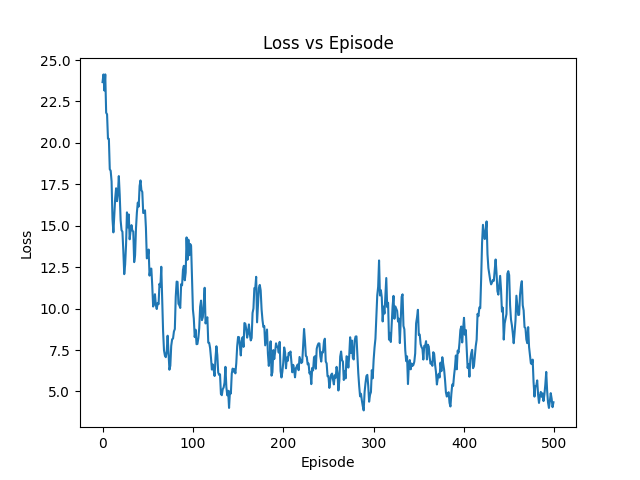
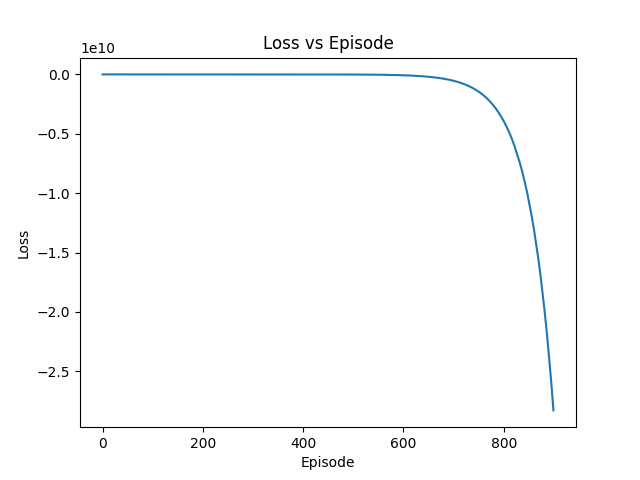
Asserting posterior process

diff --git a/frozenlake_irl.py b/frozenlake_irl.py
@@ -48,32 +48,43 @@ class IrlAgentBayesian(frozenlake_agent.FrozenLakeQLearning):
             self.Q_table = np.zeros((self.env.observation_space.n, self.env.action_space.n))
             games_lengths.append(self.run())
             self.feature_expectations.append(self.get_feature_expectation())
-            loss = torch.norm(weights - self.expert_feature_expectation)**2
-            optimizer.zero_grad()
-            loss.backward()
-            optimizer.step()
-            losses.append(loss.item())
-            print("loss.item(): ", loss.item())
-            if loss.item() < 1e-5:
-                break
+            for j in range(10):
+                for feature_expectation in self.feature_expectations:
+                    log_prior = prior.log_prob(weights).sum()
+                    feature_expectation = torch.tensor(feature_expectation, dtype=torch.float32)
+                    feature_expectation_difference = self.expert_feature_expectation - feature_expectation
+                    print(feature_expectation_difference.dtype)
+                    print(weights.dtype)
+                    print(feature_expectation.dtype)
 
-        self.weights = weights.detach().numpy()
+                    dot_product = torch.dot(feature_expectation_difference, weights)
+
+                    loss = -dot_product + log_prior
+
+                    optimizer.zero_grad()
+
+                    loss.backward()
+                    optimizer.step()
+
+                    losses.append(loss.item())
+
+            self.weights = weights.detach().numpy()
         return games_lengths, losses
 
 if __name__ == "__main__":
     print('Running IRL FrozenLake')
     time_start = time.time()
-    expert = frozenlake_agent.FrozenLakeQLearning(num_episodes=5000)
+    expert = frozenlake_agent.FrozenLakeQLearning(num_episodes=500)
     lengths = expert.run()
     print(f"Time to run: {time.time() - time_start}")
     print(f"Q_table: {expert.Q_table}")
     expert.draw_table()
 
     expert_feature_expectation = expert.get_feature_expectation(num_episodes=100)
-    prior = 'laplacian'
+    prior = 'uniform'
     agent = IrlAgentBayesian(expert_feature_expectation, prior_type=prior)
 
-    games_lengths, losses = agent.train_weights(N=500)
+    games_lengths, losses = agent.train_weights(N=12)
 
     time_end = time.time()
 
